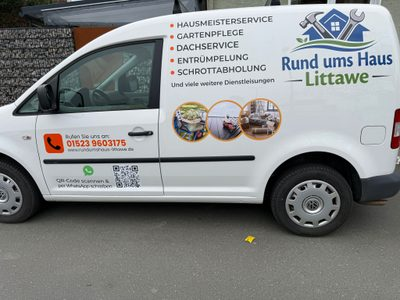
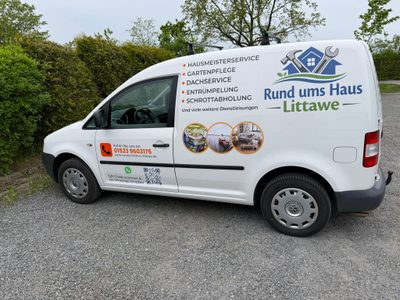
fix(branding): replace firmenwagen.jpg with full-car photo
Original was cropped (only middle of van visible). Kevin sent
full-car shot 2026-05-03 — replaces all 8 image variants and
updates aspect ratio (height 830 to 900 for 4:3).

diff --git a/site/src/components/sections/FamilyBusinessBlock.tsx b/site/src/components/sections/FamilyBusinessBlock.tsx
@@ -43,7 +43,7 @@ export default function FamilyBusinessBlock() {
               sizes="(max-width: 640px) 100vw, (max-width: 1024px) 90vw, 1024px"
               alt="Firmenwagen von Rund ums Haus Littawe — VW Caddy mit Logo, allen 5 Hauptleistungen, Telefonnummer und WhatsApp-QR-Code"
               width={1200}
-              height={830}
+              height={900}
               loading="eager"
               fetchPriority="high"
               decoding="sync"
